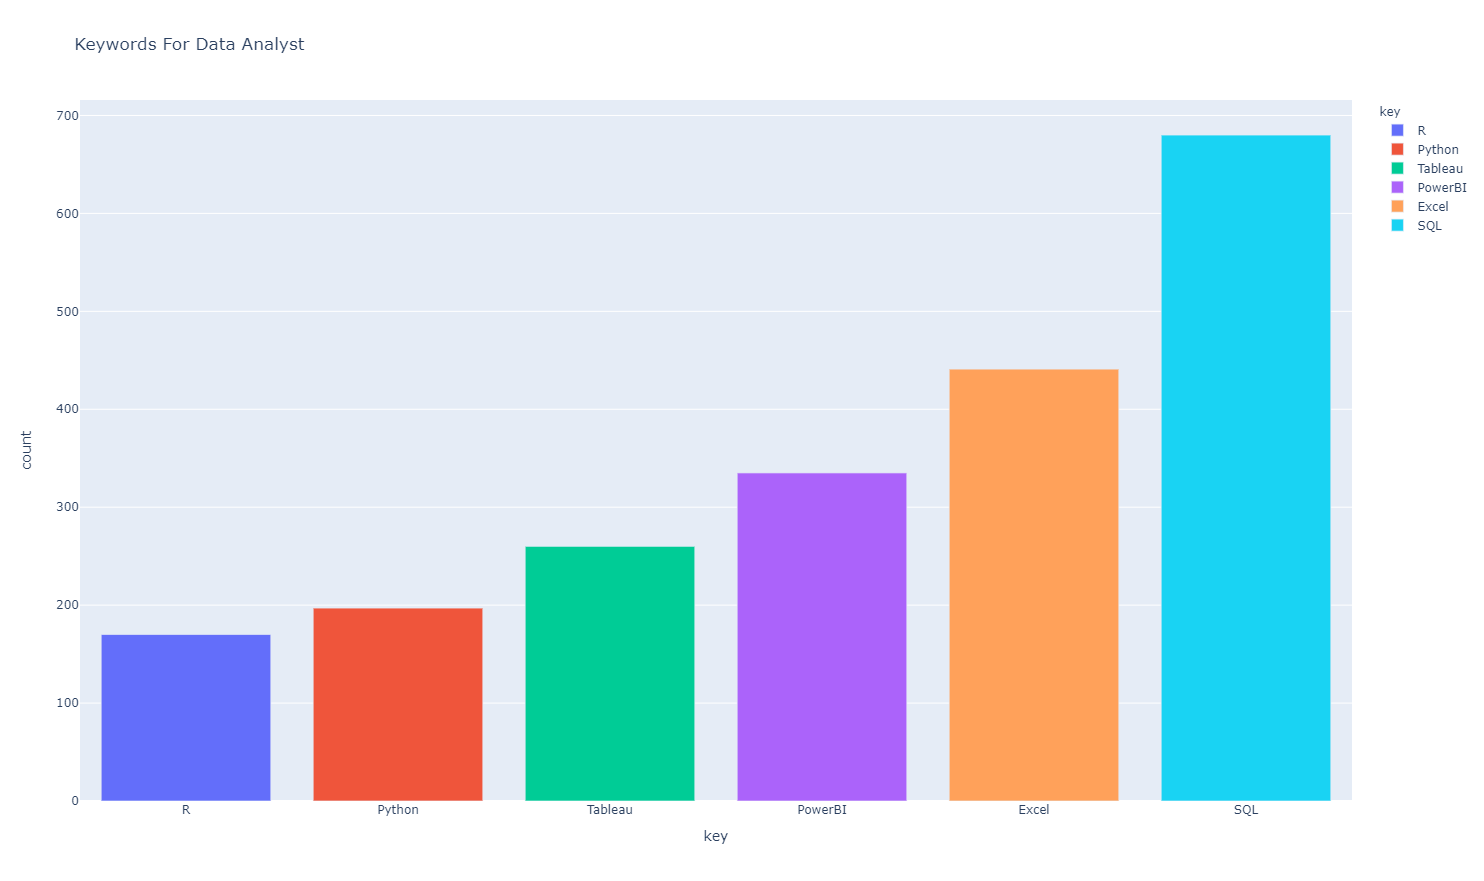
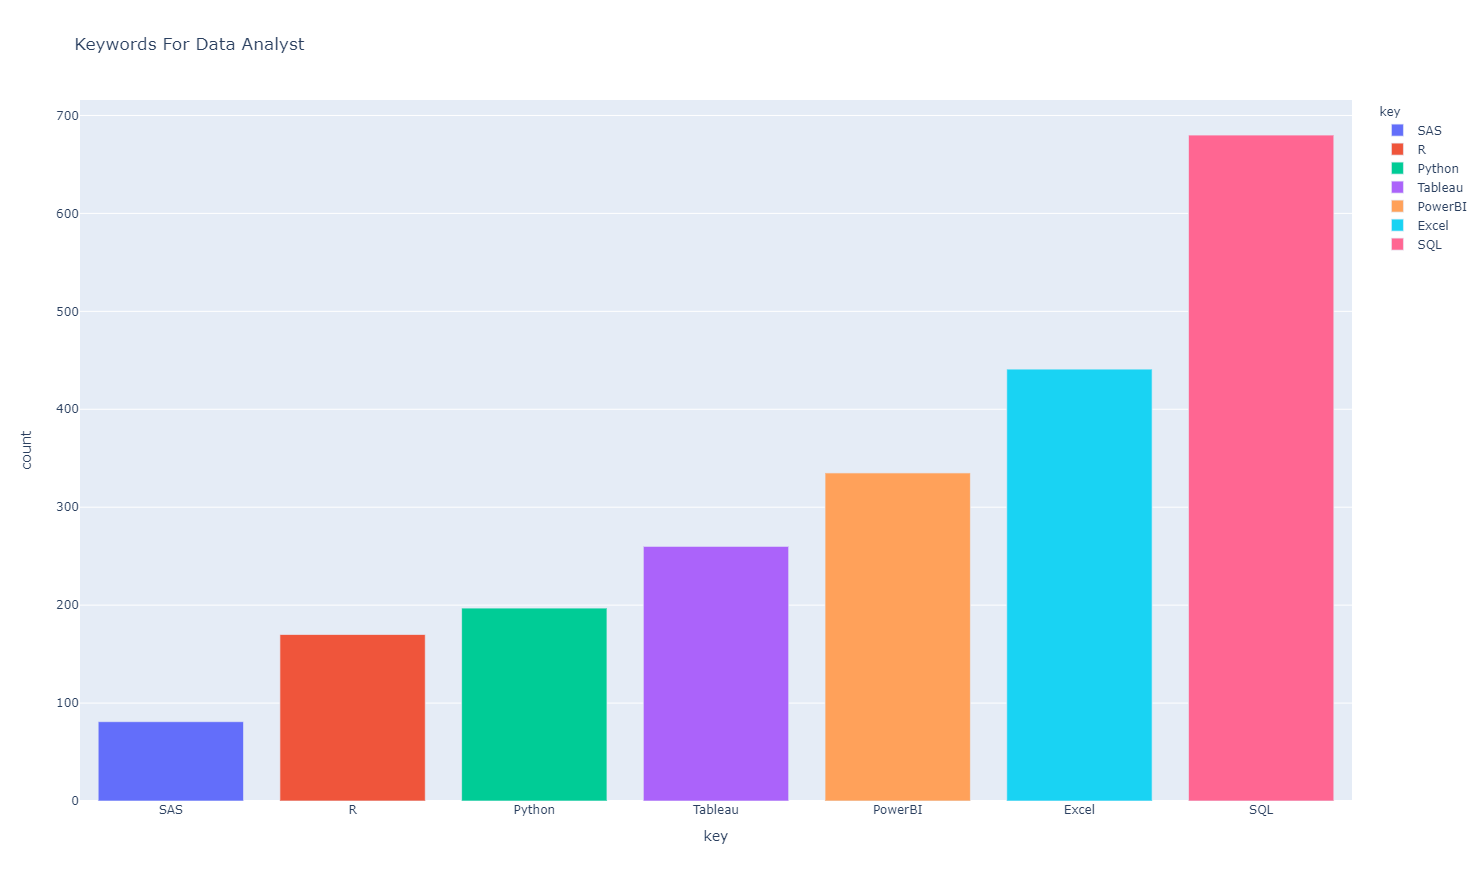
fixed 5 broken links

Changed region(s): [[0.062, 0.1532, 0.8989, 0.9194], [0.9609, 0.1532, 0.9919, 0.2758]]

diff --git a/data/data.html b/data/data.html
@@ -1,4 +1,4 @@
-<h2 style="text-align: center;">Data</h2><hr>
+<h2 style="text-align: center;">Data Analysis & Data Sets</h2><hr>
 <p>Place where I either gather data, analyze data, or do both!</p>
 <h3 style="text-align: center;">Insights</h3>
 <table style="width:100%">
@@ -12,7 +12,7 @@
 		<td><a onclick="changeContent('/data/jobrequirements/jobrequirements.html')">Data Analyst Most Wanted Skills</a></td>
 		<td><a href="data/datasets/dataanalyst_jobreq.csv">dataanalyst_jobreq.csv</a></td>
 		<td>02/27/2021</td>
-		<td>In order it is SQL, Excel, PowerBI, Tableau, Python, R</td>
+		<td>In order it is SQL, Excel, PowerBI, Tableau, Python, R, SAS</td>
 	</tr>
 </table>
 <h3 style="text-align: center;">Data Sets</h3>
@@ -24,32 +24,32 @@
 		<th>Description</th>
 	</tr>
 	<tr>
-		<td><a href='/data/dataset/dataanalyst_jobreq.csv'>dataanalyst_jobreq.csv</a></td>
+		<td><a href='/data/datasets/dataanalyst_jobreq.csv'>dataanalyst_jobreq.csv</a></td>
 		<td>02/27/2021</td>
 		<td>company, href, html, location, title</td>
 	</tr>
 	<tr>
-		<td><a href='/data/dataset/shortsalevolumedata.csv'>shortsalevolumedata.csv</a></td>
+		<td><a href='/data/datasets/shortsalevolumedata.csv'>shortsalevolumedata.csv</a></td>
 		<td>02/24/2021</td>
 		<td>index, date, shortvolume, totalvolume</td>
 	</tr>
 	<tr>
-		<td><a href='/data/dataset/ft500.csv'>ft500.csv</a></td>
+		<td><a href='/data/datasets/ft500.csv'>ft500.csv</a></td>
 		<td>02/23/2021</td>
 		<td>symbol, security, sec filing, gics sector, gics sub-industry, headquarters location, date first added, cik, founded, </td>
 	</tr>
 	<tr>
-		<td><a href='/data/dataset/strat3.csv'>strat3.csv</a></td>
+		<td><a href='/data/datasets/strat3.csv'>strat3.csv</a></td>
 		<td>02/25/2021</td>
 		<td>index, symbol, win%, expectedvalue, totalevents, pnl</td>
 	</tr>
 	<tr>
-		<td><a href='/data/dataset/strat2csv'>strat2.csv</a></td>
+		<td><a href='/data/datasets/strat2csv'>strat2.csv</a></td>
 		<td>02/24/2021</td>
 		<td>index, symbol, win%, expectedvalue, totalevents, pnl</td>
 	</tr>
 	<tr>
-		<td><a href='/data/dataset/strat1.csv'>strat1.csv</a></td>
+		<td><a href='/data/datasets/strat1.csv'>strat1.csv</a></td>
 		<td>02/23/2021</td>
 		<td>index, symbol, win%, expectedvalue, totalevents, pnl</td>
 	</tr>

diff --git a/data/jobrequirements/jobrequirements.html b/data/jobrequirements/jobrequirements.html
@@ -2,7 +2,7 @@
 <p>Description: Gather data that showed short volume per company. Then added up all the short volume and total volume. This data set is all short sale volume and total volume of each day.</p>
 <h3 style="text-align:center;">Graph</h3>
 <img src="/data/jobrequirements/keywordsfordataanalyst.png" style="max-width:100%; max-height:100%;">
-<p>In order for the job Data Analyst, the requirement tier is SQL, Excel, PowerBI, Tableau, Python, R. Should hit up all of them though for the best chance.</p>
+<p>In order for the job Data Analyst, the requirement tier is SQL, Excel, PowerBI, Tableau, Python, R, SAS. Should hit up all of them though for the best chance.</p>
 <p>Learned some SCRAPY framework for this. Yield and Generator were quite tough to understand, eventually cracked it took quite a while though. I will most likely use scrapy to scrape things from now on. It is really effecient once you build the bot.</p>
 <h3 style="text-align:center;">Data</h3>
-<a href='/data/dataset/dataanalyst_jobreq.csv'>dataanalyst_jobreq.csv</a>
+<a href='/data/datasets/dataanalyst_jobreq.csv' style="text-align: center;">dataanalyst_jobreq.csv</a>
